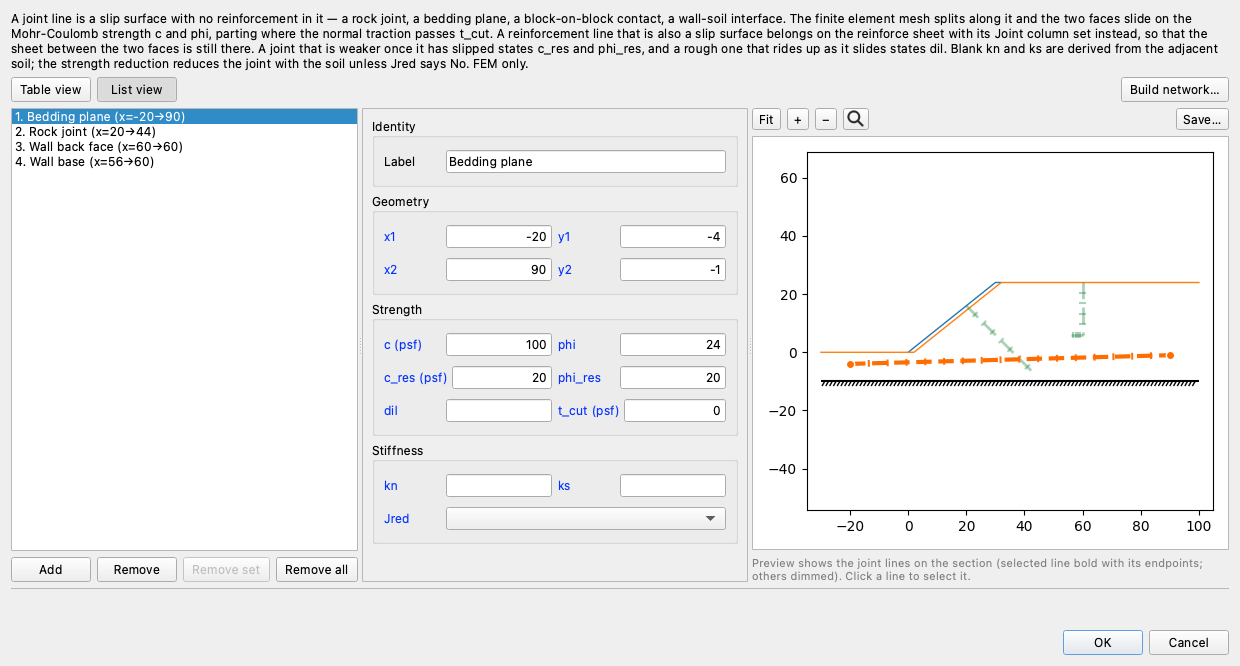
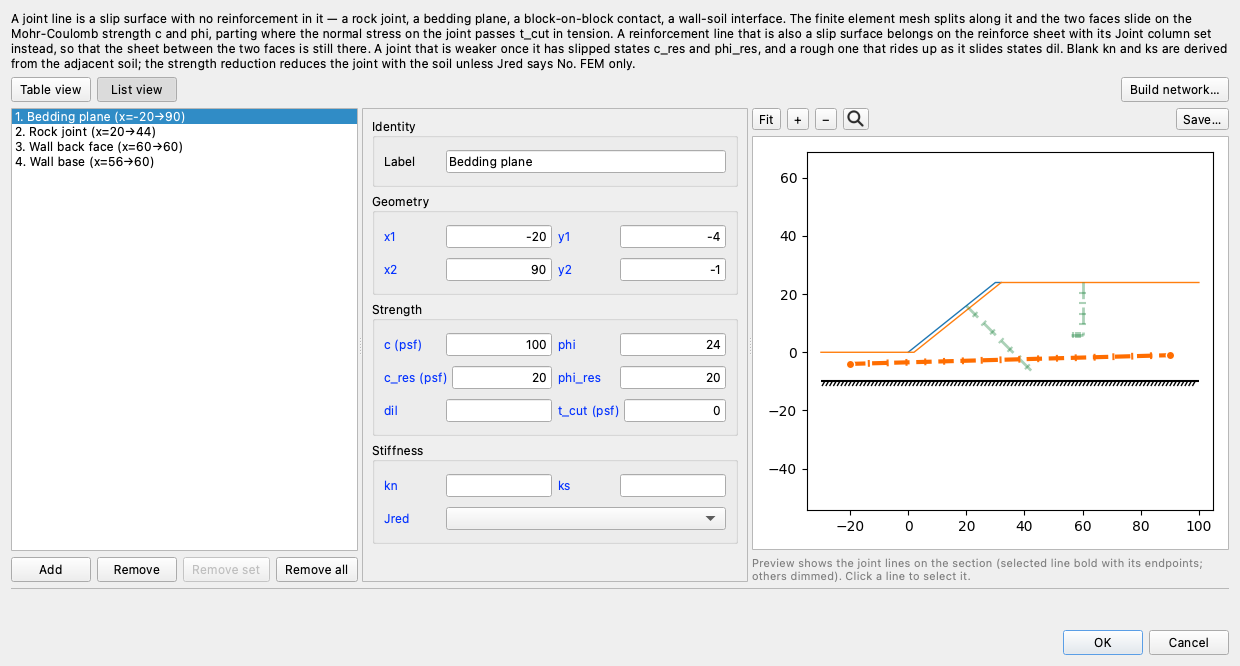
studio: the joints editor's help text says normal stress, not traction
Claude-Session: https://claude.ai/code/session_01XjjT2aBxw8gY7EFdpoUcpj

Changed region(s): [[0.0, 0.03, 1.0, 0.1201]]

diff --git a/studio/editors.py b/studio/editors.py
@@ -6617,10 +6617,11 @@ JOINTS_HELP = {
     "phi_res": "Residual joint friction angle, degrees (blank = same as phi). "
                "The strength the joint keeps once it has slipped.",
     "dil": "Joint dilation angle, degrees (blank = 0). A rough joint rides up "
-           "on its asperities as it slides: a unit of slip opens it by "
-           "tan(dil).",
+           "over the bumps on its surface as it slides: the opening is the "
+           "slip times tan(dil).",
     "t_cut": "Tension cutoff (blank = 0). The joint opens when the normal "
-             "traction passes it, and closes again when the faces meet.",
+             "stress on it passes into tension beyond this value, and closes "
+             "again when the faces meet.",
     "kn": "Joint normal stiffness (blank = from soil E and size).",
     "ks": "Joint shear stiffness (blank = from soil G and size).",
     "jred": "Reduce joint strength in SSRM (blank = Yes). No keeps a "
@@ -6672,7 +6673,7 @@ class JointsEditor(CategoryEditor):
                       "contact, a wall-soil interface. The finite element mesh "
                       "splits along it and the two faces slide on the "
                       "Mohr-Coulomb strength c and phi, parting where the normal "
-                      "traction passes t_cut. A reinforcement line that is also a "
+                      "stress on the joint passes t_cut in tension. A reinforcement line that is also a "
                       "slip surface belongs on the reinforce sheet with its Joint "
                       "column set instead, so that the sheet between the two "
                       "faces is still there. A joint that is weaker once it has "
